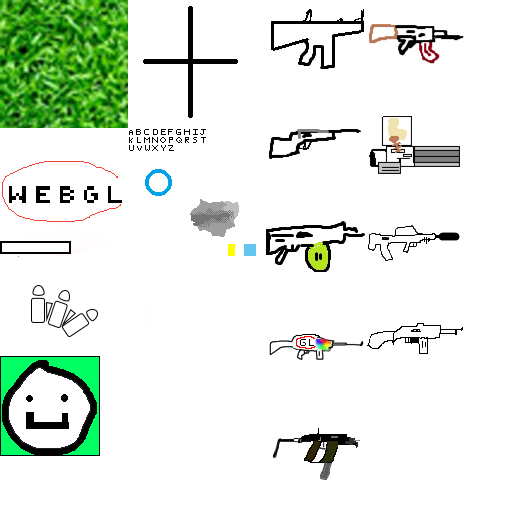
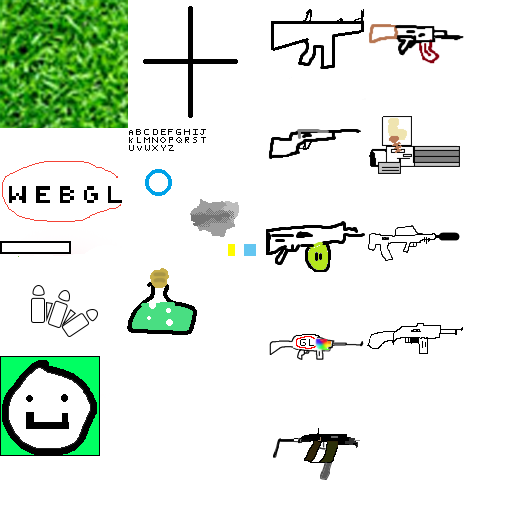
much zombiewars deving

Changed region(s): [[0.25, 0.5312, 0.4062, 0.6562]]

diff --git a/static/zombiegame_updated_3d/classes.js b/static/zombiegame_updated_3d/classes.js
@@ -35,7 +35,7 @@ for (let a=0; a<zombieBarRemaining.length; a+=2) {
 var texCoordDimension = 100/texW; // if at any point I don't use a square texture then it will fail soooooooo
 
 class Item {
-	constructor(pos, name, texCoordStart, specs, type = 0, add = true, despawn = true) {
+	constructor(pos, name, texCoordStart, specs, size, type = 0, add = true, despawn = true) {
 		console.log(texCoordStart);
 		this.name = name;
 		this.pos = pos;
@@ -46,18 +46,20 @@ class Item {
 		 1, 1,
 		 0, 0,
 		 1, 0];
-		for (let a=0; a<this.texCoordsCycle.length; a+=2) {
-			this.texCoordsCycle[a] *= texCoordDimension;
-			this.texCoordsCycle[a+1] *= texCoordDimension;
-			this.texCoordsCycle[a] += texCoordStart[0];
-			this.texCoordsCycle[a+1]+=  texCoordStart[1];
-		}
 		this.cycle = [-1.0, -1.0,
 		1.0, -1.0,
 		1.0, 1.0,
 		-1.0, -1.0,
 		1.0, 1.0,
 		-1.0, 1.0];
+		for (let a=0; a<this.texCoordsCycle.length; a+=2) {
+			this.texCoordsCycle[a] *= texCoordDimension;
+			this.texCoordsCycle[a+1] *= texCoordDimension;
+			this.texCoordsCycle[a] += texCoordStart[0];
+			this.texCoordsCycle[a+1]+=  texCoordStart[1];
+			this.cycle[a] *= size;
+			this.cycle[a+1] *= size;
+		}
 		if (add) {
 			for (let i=0; i<6; i++) {realBillboardData.offset = realBillboardData.offset.concat(pos);}
 			realBillboardData.corner = realBillboardData.corner.concat(this.cycle);
@@ -68,7 +70,7 @@ class Item {
 		this.timer = despawn?1000:Infinity;
 		this.roundsRemaining = this.specs.capacity;
 		if (!type) { // type == 0
-			this.clutcher = false;
+			this.clutcher = false; // weapons can have the "clutcher" upgrade
 		}
 	}
 }
@@ -96,7 +98,7 @@ class MyPlayer {
 		this.firingDelay = false;
 		this.reloading = false;
 		this.inAir = false;
-		this.inv = [new Item([0,10,0], "GL Gun", [266/texW, 300/texH], {damage:20,delay:100,reloadTime:1000,capacity:20,fire:genNoise("gl_fire"),rel:genNoise("gl_reload")}, 0, false), false, false, false];
+		this.inv = [new Item([0,10,0], "GL Gun", [266/texW, 300/texH], {damage:20,delay:100,reloadTime:1000,capacity:20,fire:genNoise("gl_fire"),rel:genNoise("gl_reload")}, 0, 0, false), false, false, false];
 		this.upgradeInv = [];
 		this.selected = 0;
 
@@ -107,7 +109,7 @@ class MyPlayer {
 			clone.style.display = "block";
 			clone.id = "upgradeItem-" + myPlayer.upgradeInv.length;
 			clone.querySelector("#upHeading").innerHTML = u.name; // they all have identical ids
-			clone.querySelector("#upDesc").innerHTML = "some description trust";
+			clone.querySelector("#upDesc").innerHTML = u.specs.desc;
 			clone.querySelector("#upButton").onclick = ()=>{u.specs.action();clone.remove();};
 			div.after(clone);
 		}
@@ -142,7 +144,7 @@ class MyPlayer {
 
 			if (this.invSelect.roundsRemaining == 0) {
 				if (this.invSelect.clutcher && this.health < 25) {
-					this.invSelect.roundsRemaining = this.invSelect.specs.capacity + 20;
+					this.invSelect.roundsRemaining = this.invSelect.specs.capacity;
 				} else {
 					this.reloading = true; setTimeout(()=>{
 						myPlayer.reloading = false;myPlayer.invSelect.roundsRemaining = myPlayer.invSelect.specs.capacity;

diff --git a/static/zombiegame_updated_3d/minecraft.js b/static/zombiegame_updated_3d/minecraft.js
@@ -94,13 +94,16 @@ function _aList(lst, x, y, z) {
 }
 
 var a = new Audio("/static/radio.mp3");
-
+var playerName;
 function startGame() {
 	document.getElementById("homeDiv").style.display = "none";
 	canvas.requestPointerLock();
 	clearInterval(ambientHandle);
+	var n = document.getElementById("nameBox").value;
+	playerName = n == ""?"You":n; // if they didn't enter anything, just put "you"
 }
 var alreadyHelped;
+var dead = false;
 function gameHelp() {
 	var h;
 	if (!alreadyHelped) {
@@ -122,7 +125,7 @@ function pauseMenu() {
 		console.log("lock on");
 		if (gamestart) {mainHandle = setInterval(loop, 25);}
 		gamestart = true;
-	} else {
+	} else if (!dead) {
 		var a = document.getElementById('pauseDiv');
 		a.style.display = "block";
 		console.log("lock off");
@@ -248,12 +251,15 @@ function debugRefresh() {
 	document.getElementById("debugStuff").innerHTML = disp;
 }
 
-function ded() {
+function ded(reason) {
 	window.clearInterval(mainHandle);
 	oCtx.font = "40px Open Sans";
 	oCtx.fillText("you died lmao", overlay.width * 0.3, overlay.height * 0.4);
 	a.currentTime = 18;
-	a.play()
+	a.play();
+	document.getElementById("deadDiv").style.display = "block";
+	document.getElementById("deadReason").innerHTML = reason;
+	dead = true;
 }
 
 function onCameraTurn(e) {
@@ -308,12 +314,12 @@ function dropItems(goodWeapon) {
 	return eligible[Math.floor(Math.random() * eligible.length)];
 }
 function getDifficulty(t) {
-	return 1 / (2 * Math.abs(t - Math.floor(t + 0.5)) * Math.sqrt(t * 2));
+	return 0.5 / (2 * Math.abs(t - Math.floor(t + 0.5)) * Math.sqrt(t * 2));
 }
 function mix(a, b, amount) {
 	return a * (1 - amount) + b * amount;
 }
-var DAYLENGTH = 4000; // 2min
+var DAYLENGTH = 3000; // divided by 40 = seconds
 var COLORLENGTH = DAYLENGTH / 8; // the time each color lasts for
 function loop() {
 	var before = Date.now();
@@ -396,7 +402,15 @@ function loop() {
 		buffer.vertexPosition[1] = buffer.vertexPosition[1].concat(sunPosition);
 		buffer.vertexTexCoord[1] = buffer.vertexTexCoord[1].concat([231/texW, 250/texH]);
 		spawnStuff(m);
-		if (myPlayer.health < 0) {ded();} // oof
+		if (myPlayer.health < 0) { // oof
+			if (zombies.length > 5) {
+				ded(playerName + " was swarmed by a bunch of zombies. rip " + playerName + ".");
+			} else if (myPlayer.reloading) {
+				ded(playerName + " was assasinated by a zombie while reloading.");
+			} else {
+				ded(playerName + " was slain by zombies. LLLL");
+			}
+		}
 		debugDispNow["health"] = myPlayer.health;
 
 		// flush

diff --git a/templates/zombiewars3d.html b/templates/zombiewars3d.html
@@ -42,6 +42,7 @@
 				</center>
 			</div>
 		</div>
+		<!-- ------pause------- -->
 		<div id="pauseDiv" class="homeDivInner">
 			<center>
 				<h1>Game Paused</h1>
@@ -50,7 +51,10 @@
 				<button onclick="document.getElementById('pauseDiv').style.display='none';">Hide Banner</button>
 			</center>
 		</div>
+
 		<img src="/static/zombiegame_updated_3d/volume on.png" id="volumeButton" onclick="toggleVolume();">
+
+		<!-- ------upgrades------- -->
 		<div id = "upgradeDiv">
 			<strong>Upgrades (press U)</strong>
 		</div>
@@ -64,6 +68,16 @@
 				</div>
 			</div>
 		</div>
+		<!-- ------you died!------- -->
+		<div id="deadDiv">
+			<div id="deadMsg">
+				<center>
+					<h1 style="font-size:5rem;">YOU DIED!!!</h1>
+					<strong id="deadReason" style="font-size:2rem;"></strong>
+				</center>
+			</div>
+		</div>
+		<!-- ------------------ -->
 		<div class="migNot" style="position:absolute;left:50%;top:0%;">
 			<h1>IMPORTANT NOTICE!!!</h1>
 			<p>Zombie Wars is migrating from Heroku to Replit, thus the URL will be changing in the near future.</p>
@@ -76,28 +90,7 @@
 			src="/static/zombiegame_updated_3d/shaders.js" defer></script>
 	<script type="text/javascript"
 			src="/static/multiplayer_3d_game/divisionEngine.js" defer></script>
-	<script type="text/javascript">
-		var arrowKeySensitivity = 20;
-		function onKeyDown(event) {
-			var keyCode = event.code;
-			divisDownKeys[keyCode] = true;
-			if (keyCode == "KeyU") {
-				var el = document.getElementById("upgradeMenu");
-				el.style.display = el.style.display == "block"?"none":"block"; // im so smart
-			}
-		}
-		function onKeyUp(event) {
-			keyCode = event.code;
-			divisDownKeys[keyCode] = false;
-		}
-		window.addEventListener("keydown", onKeyDown);
-		window.addEventListener("keyup", onKeyUp);
-		function processArrowKeys() {
-			if (divisDownKeys["ArrowUp"]) {onCameraTurn({movementX: 0, movementY: -arrowKeySensitivity});}
-			if (divisDownKeys["ArrowDown"]) {onCameraTurn({movementX: 0, movementY: arrowKeySensitivity});}
-			if (divisDownKeys["ArrowLeft"]) {onCameraTurn({movementX: -arrowKeySensitivity, movementY: 0});}
-			if (divisDownKeys["ArrowRight"]) {onCameraTurn({movementX: arrowKeySensitivity, movementY: 0});}
-		}
+	<script type="text/javascript" src="/static/zombiegame_updated_3d/keys.js">
 	</script>
 	<script type="text/javascript"
 			src="/static/zombiegame_updated_3d/funcs.js" defer></script>

diff --git a/static/zombiegame_updated_3d/funcs.js b/static/zombiegame_updated_3d/funcs.js
@@ -23,7 +23,7 @@ function physicsUpdate() {
 		myPlayer.velocity[1] = 0;
 	}
 	myPlayer.hitPos[1] = myPlayer.cameraPos[1] - 2;
-	if (myPlayer.hitPos[1] < -50) {ded();}
+	if (myPlayer.hitPos[1] < -50) {ded(playerName + " didn't know the world was flat in Zombie Wars. skill issue!");}
 	
 	// myPlayer.userInputVelocity[0] *= speedMultiplier;
 	// myPlayer.userInputVelocity[2] *= speedMultiplier;
@@ -41,7 +41,7 @@ function bulletsUpdate(buffer, dayN) {
 				if (zomb.health <= 0) {
 					if (Math.random() > 0.6) {
 						var toDrop = dropItems(dayN < 2);
-						items.push(new Item([zomb.pos[0], zomb.pos[1]+1, zomb.pos[2]], toDrop.name, toDrop.texCoordStart, toDrop.specs));
+						items.push(new Item([zomb.pos[0], zomb.pos[1]+1, zomb.pos[2]], toDrop.name, toDrop.texCoordStart, toDrop.specs, 1));
 					}
 					zombies.splice(zombNum, 1);
 					playerStats.zombiesKilled++;
@@ -136,14 +136,19 @@ function randomAroundPlayer(range) { // helper for spawning upgrades
 
 function spawnStuff(t) {
 	if (Math.floor(Math.random() * 60 * getDifficulty(gameTime / DAYLENGTH)) == 2) {
-		new Zombie([Math.random() * worldwidth - WORLDEND * 10, 0, Math.random() * worldwidth - WORLDEND * 10], models.zombie, 1, 100);
+		var attemptedPos = [Math.random() * worldwidth - WORLDEND * 10, 0, Math.random() * worldwidth - WORLDEND * 10];
+		var range = Math.min(Math.max(3000 / 4 / gameTime, 3), 15);
+		if (!Math.abs(attemptedPos[0] - myPlayer.hitPos[0]) < range &&
+			!Math.abs(attemptedPos[2] - myPlayer.hitPos[2] < range)) {
+			new Zombie(attemptedPos, models.zombie, 1, 100);
+		}
 	}
 	if (t == 3000) { // dun dun dun da boss comin'
 		new Zombie([0,0,0], models.boss, 10, 250);
 	}
-	if (Math.floor(Math.random() * 130) == 2 && t < 1500) {
+	if (Math.floor(Math.random() * 170) == 2 && t < 1500) {
 		items.push(new Item(randomAroundPlayer(20),
-			...upgrades[Math.floor(Math.random() * upgrades.length)], 1, true, true));
+			...upgrades[Math.floor(Math.random() * upgrades.length)], 0.3, 1, true, true));
 	}
 }
 

diff --git a/static/zombiegame_updated_3d/weapons.js b/static/zombiegame_updated_3d/weapons.js
@@ -13,6 +13,10 @@ var weapons = [
 ];
 
 var upgrades = [
-["Extra Ammo", [0, 0.5], {action:()=>myPlayer.invSelect.specs.capacity = 100}],
-["ClUtCh!!!", [0, 0.69], {action:()=>myPlayer.invSelect.clutcher = true}]
+["Extra Ammo", [0, 0.5], {action:()=>myPlayer.invSelect.specs.capacity = 100,
+	desc:"do you really not know what extra ammo means?"}],
+["ClUtCh!!!", [0, 0.69], {action:()=>myPlayer.invSelect.clutcher = true,
+	desc: "When you are low on health, this weapon does not need to reload!"}],
+["Sus Juice", [0.195, 0.5], {action:()=>myPlayer.health = Math.max(myPlayer.health + 75, 100),
+	desc: "Heal 75 health on application. (this doesn't affect your weapon)"}]
 ];

diff --git a/static/multiplayer_3d_game/multiplayer_3d_game.css b/static/multiplayer_3d_game/multiplayer_3d_game.css
@@ -79,15 +79,34 @@ p, strong {
 
 #upgradeMenu {
 	position: absolute;
-	background-color: blueviolet;
+	background-color: lightseagreen;
 	width: 75%;
 	height: 75%;
 	left: 12.5%;
 	top: 12.5%;
+	padding: 1rem;
 }
 
 #upgradeList {
 	overflow: scroll;
 	height: 50%;
 	border: 2px crimson;
+}
+
+#deadDiv {
+	position: absolute;
+	left: 0;
+	top: 0;
+	width: 100%;
+	height: 100%;
+	top: 0%;
+	background-color: #FF3333AA;
+	display: none;
+}
+
+#deadMsg {
+	color: white;
+	position: absolute;
+	top: 30%;
+	width: 100%;
 }
